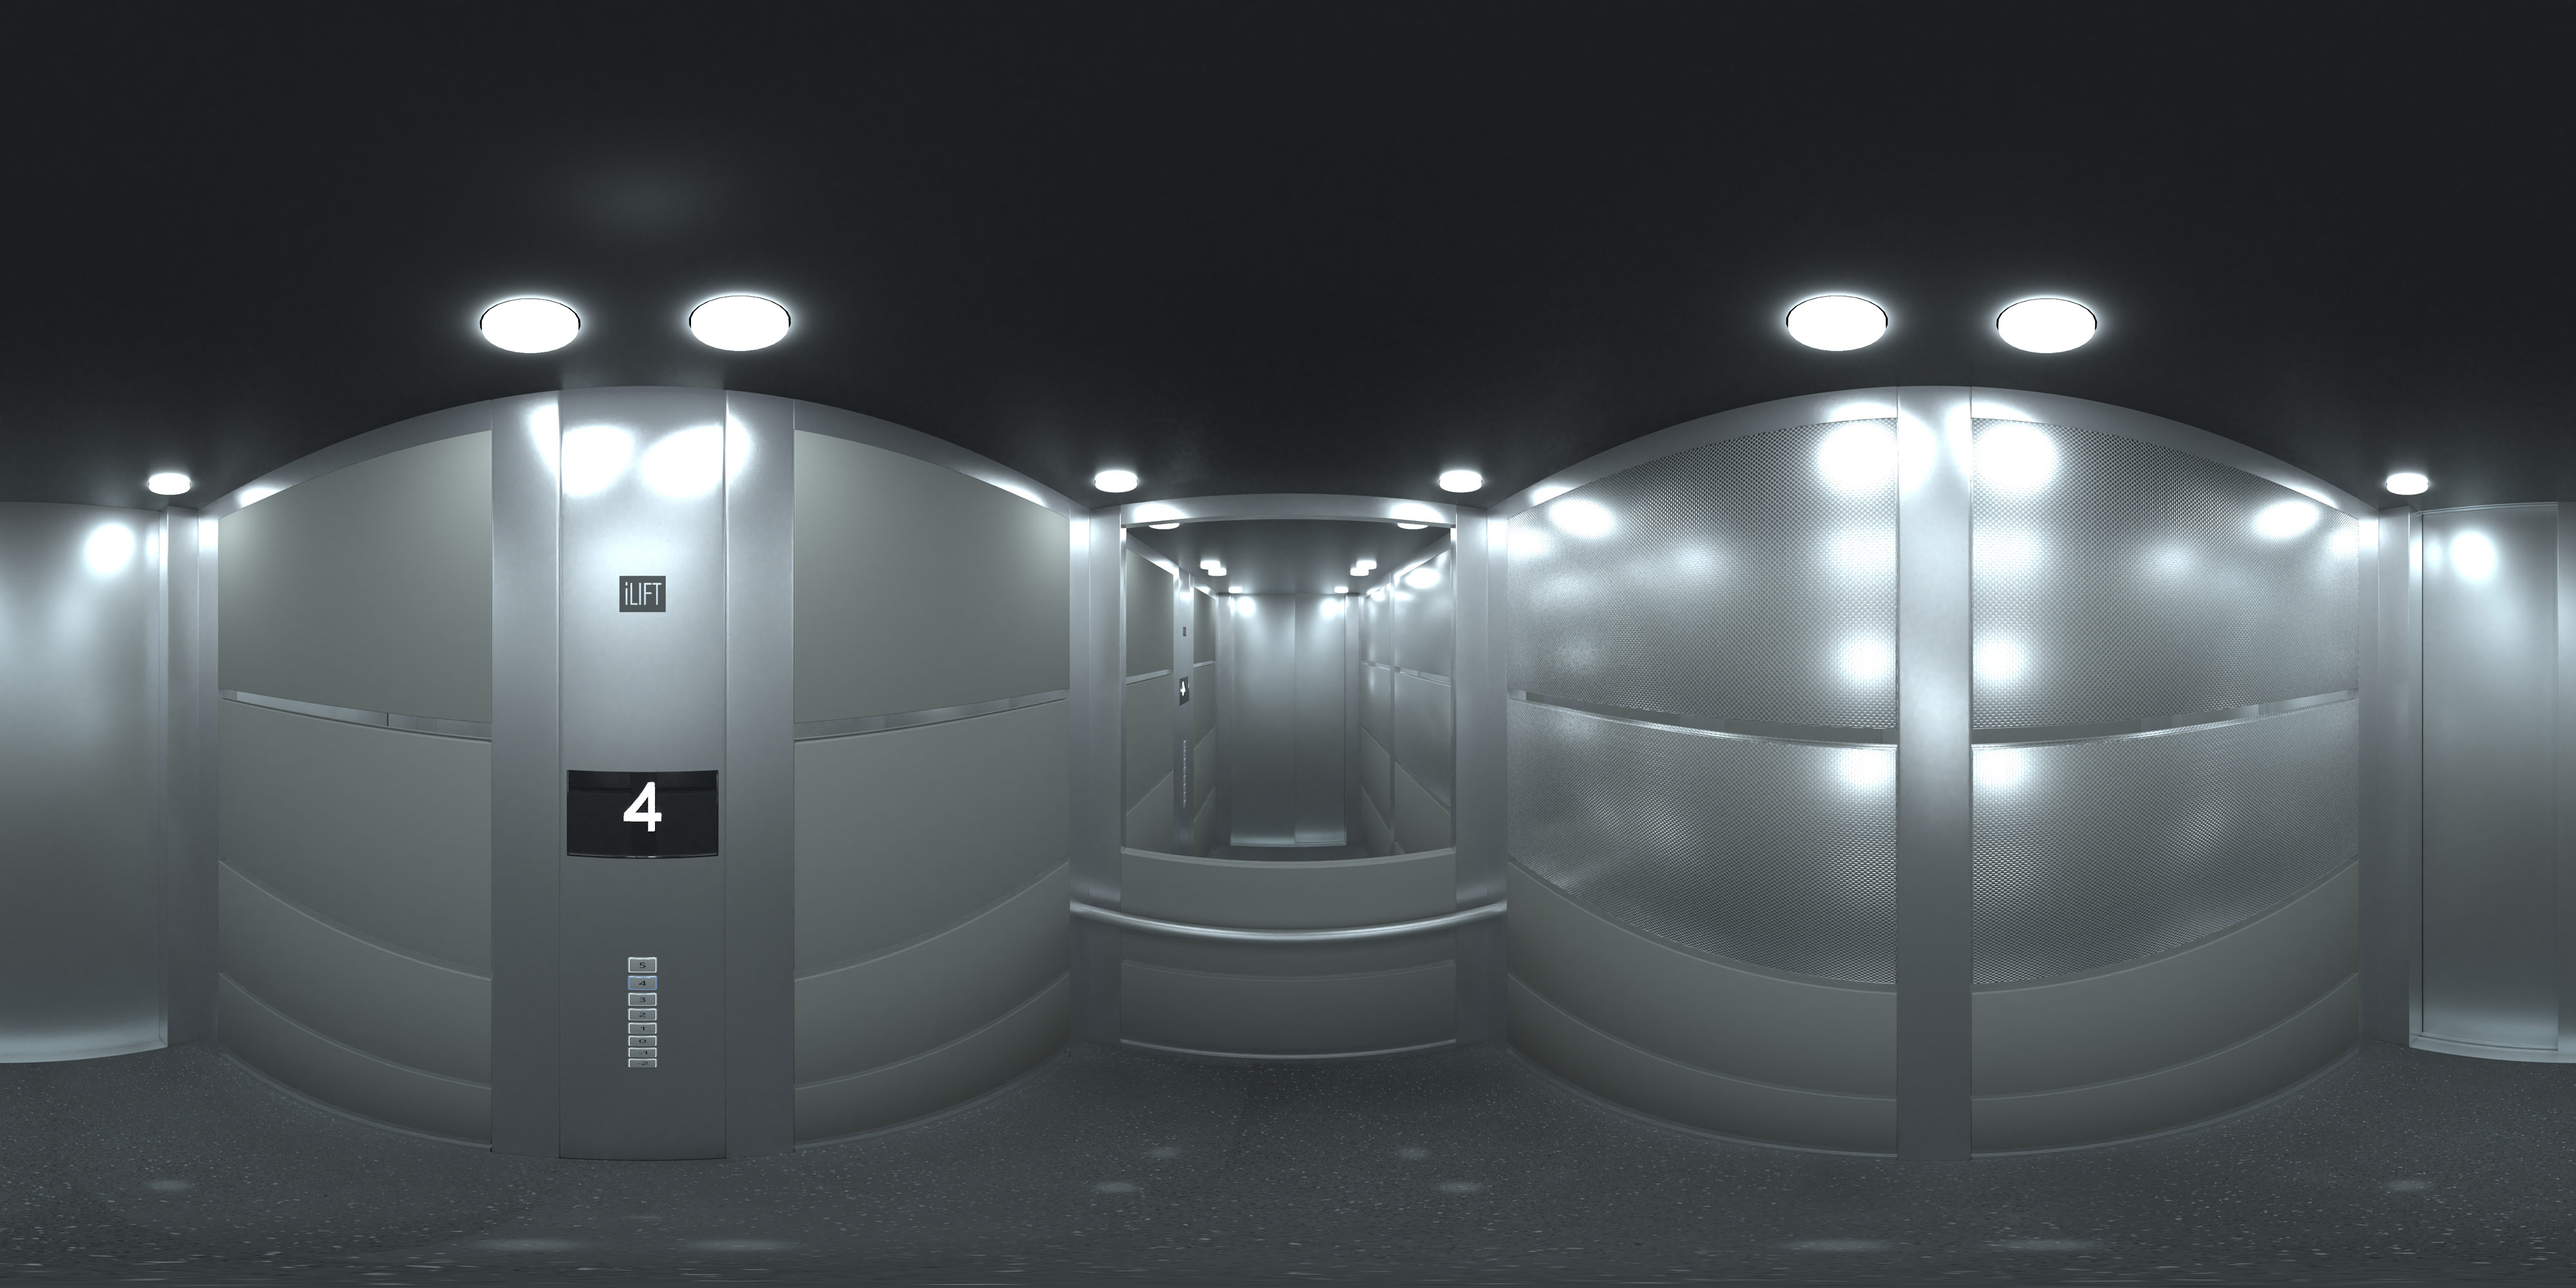
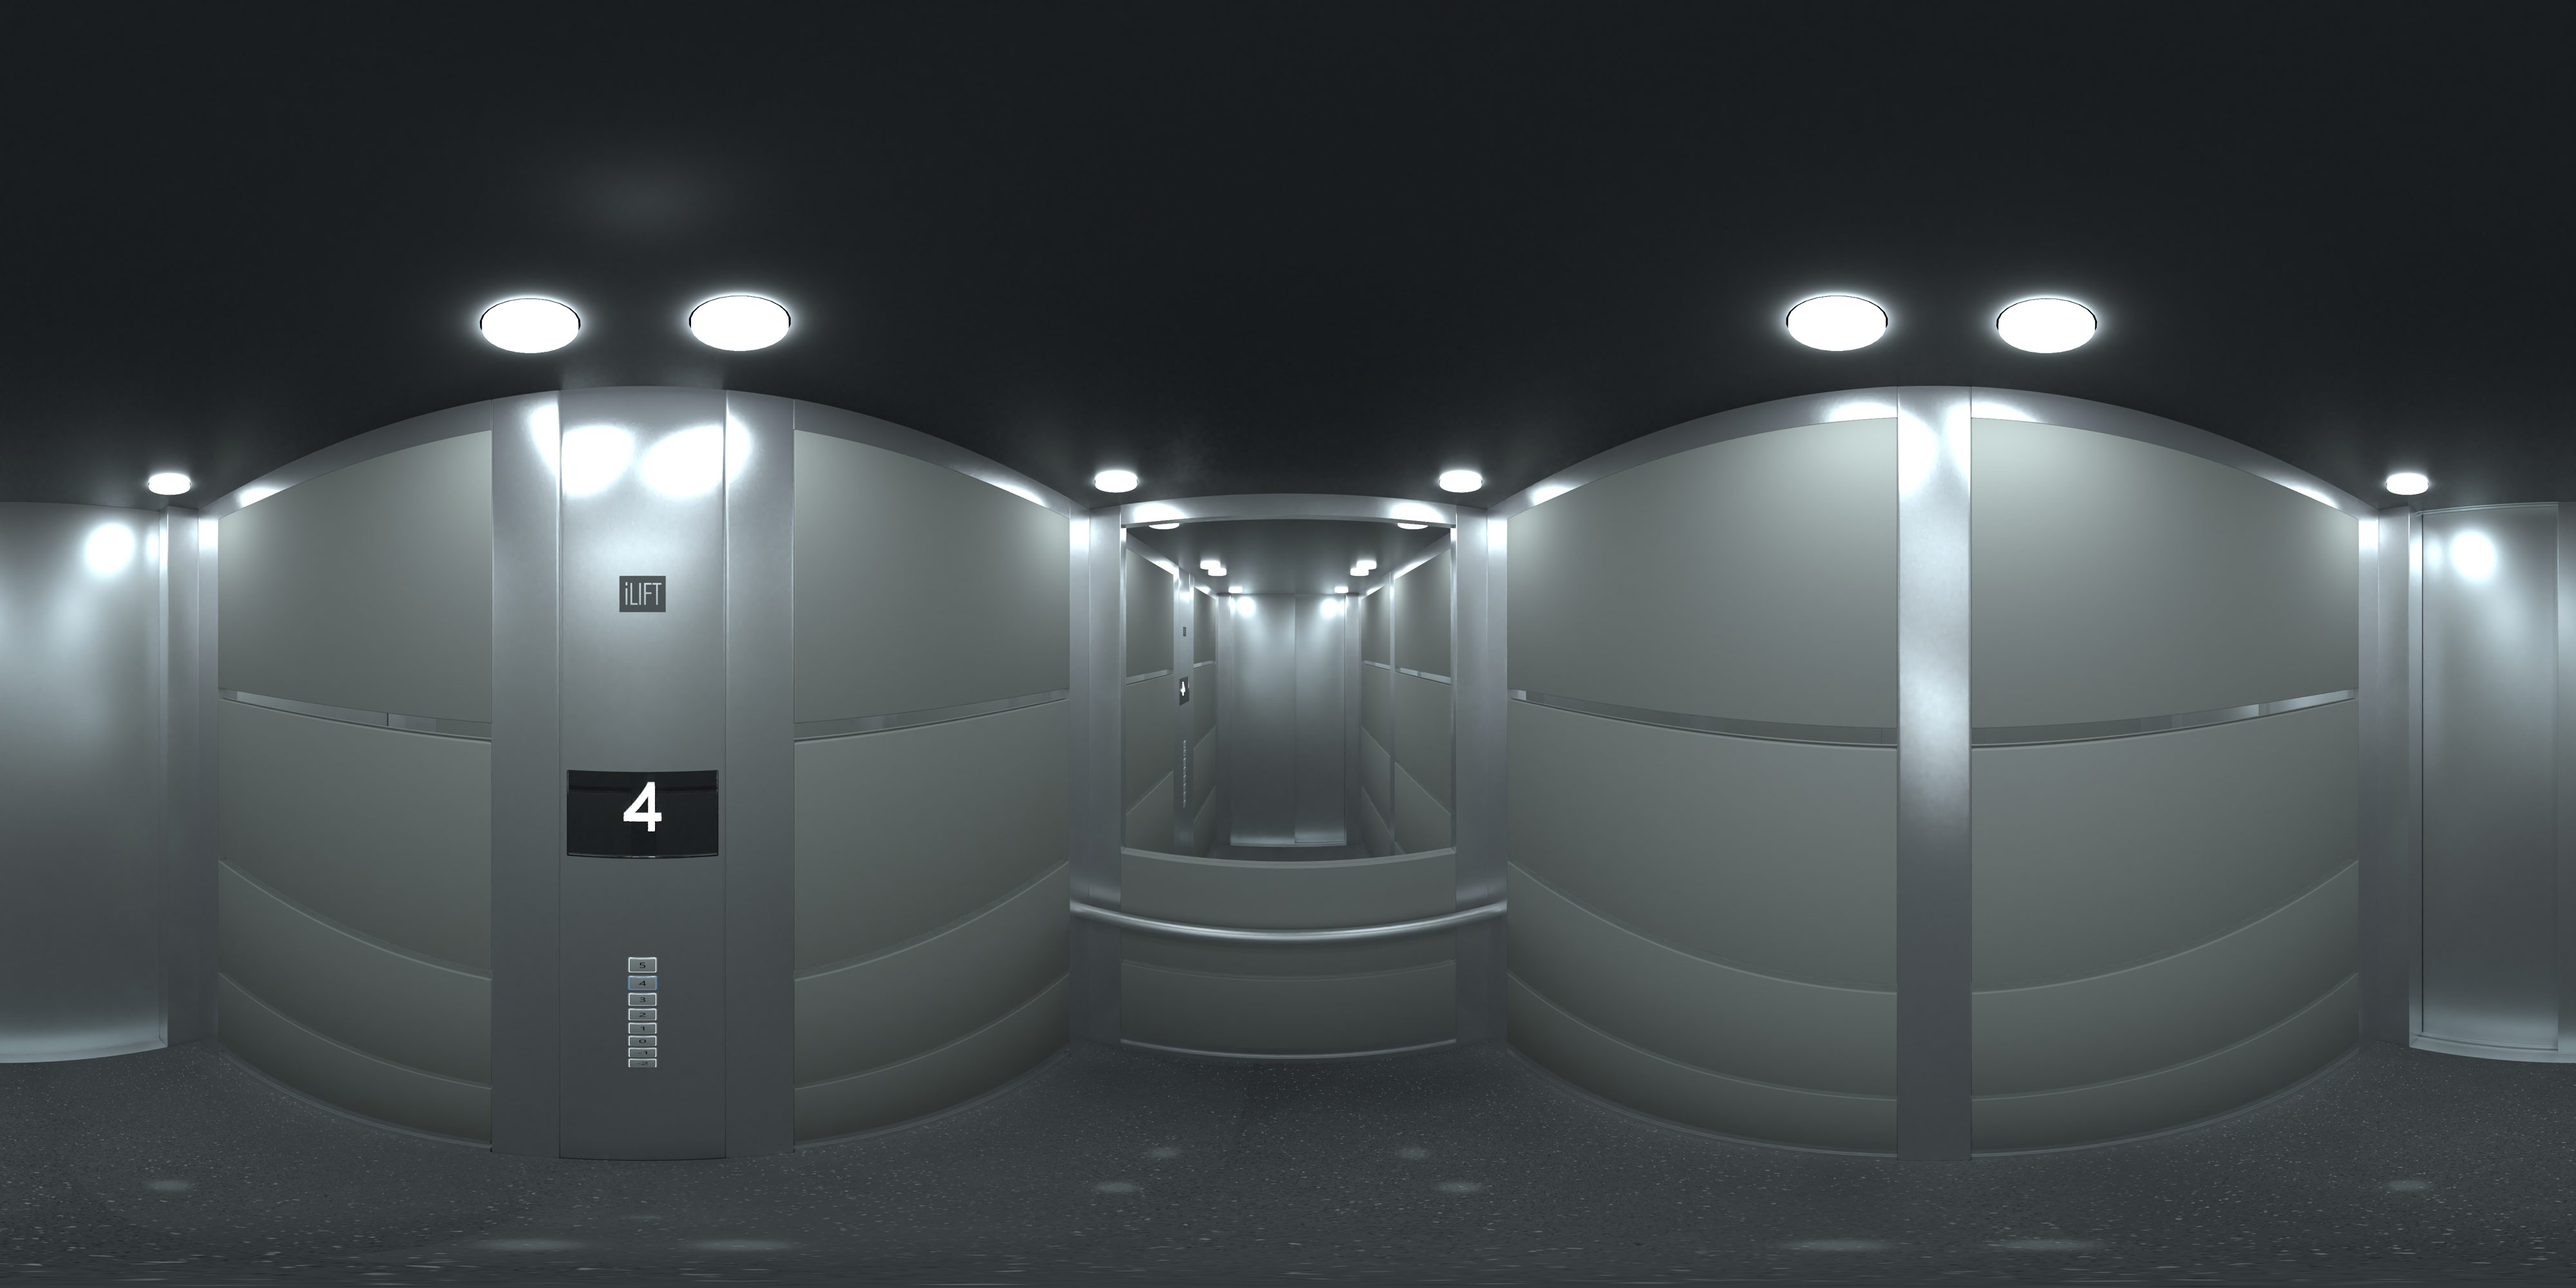
Fix RAL and fov

Changed region(s): [[0.5, 0.31, 0.9688, 0.775], [0.1875, 0.434, 0.3125, 0.589], [0.0938, 0.527, 0.1562, 0.558]]

diff --git a/src/Lifts.js b/src/Lifts.js
@@ -154,21 +154,21 @@ class WelcomeToVR extends React.Component {
         />
         <MaterialChange
           pos1={this.changePos(" 0 0 0")}
-          pos2={this.changePos(" 0 0 -20")}
-          pos3={this.changePos(" 0 0 -40")}
-          pos4={this.changePos(" 0 0 -60")}
-          pos5={this.changePos(" 20 0 0 ")}
-          pos6={this.changePos(" 20 0 -20")}
-          pos7={this.changePos(" 20 0 -40")}
-          pos8={this.changePos(" 20 0 -60")}
-          pos9={this.changePos(" 40 0 0")}
-          pos10={this.changePos("40 0 -20")}
-          pos11={this.changePos("40 0 -40")}
-          pos12={this.changePos("40 0 -60")}
-          pos13={this.changePos("60 0 0")}
-          pos14={this.changePos("60 0 -20")}
-          pos15={this.changePos("60 0 -40")}
-          pos16={this.changePos("60 0 -60")}
+          pos2={this.changePos(" 0 0 -200")}
+          pos3={this.changePos(" 0 0 -400")}
+          pos4={this.changePos(" 0 0 -600")}
+          pos5={this.changePos(" 200 0 0 ")}
+          pos6={this.changePos(" 200 0 -200")}
+          pos7={this.changePos(" 200 0 -400")}
+          pos8={this.changePos(" 200 0 -600")}
+          pos9={this.changePos(" 400 0 0")}
+          pos10={this.changePos("400 0 -200")}
+          pos11={this.changePos("400 0 -400")}
+          pos12={this.changePos("400 0 -600")}
+          pos13={this.changePos("600 0 0")}
+          pos14={this.changePos("600 0 -200")}
+          pos15={this.changePos("600 0 -400")}
+          pos16={this.changePos("600 0 -600")}
         />
         <div style={{ minWidth: "100vw", minHeight: "100vh" }}>
           <Scene
@@ -205,25 +205,25 @@ class WelcomeToVR extends React.Component {
               <img id="caropattern" src={CaroPatternPlatform} alt="" />
               <img id="ralfoil" src={RALFoilPlatform} alt="" />
             </a-assets>
-            <a-sky position="0 0 0" radius="10" src="#ral9006" />
-            <a-sky position="0 0 -20" radius="10" src="#darkoak" />
-            <a-sky position="0 0 -40" radius="10" src="#birchoak" />
-            <a-sky position="0 0 -60" radius="10" src="#blackfoilpattern" />
+            <a-sky position="0 0 0" radius="100" src="#ral9006" />
+            <a-sky position="0 0 -200" radius="100" src="#darkoak" />
+            <a-sky position="0 0 -400" radius="100" src="#birchoak" />
+            <a-sky position="0 0 -600" radius="100" src="#blackfoilpattern" />
 
-            <a-sky position="20 0 0" radius="10" src="#spruceoak" />
-            <a-sky position="20 0 -20" radius="10" src="#oak" />
-            <a-sky position="20 0 -40" radius="10" src="#acaciaoak" />
-            <a-sky position="20 0 -60" radius="10" src="#whitefoilpattern" />
+            <a-sky position="200 0 0" radius="100" src="#spruceoak" />
+            <a-sky position="200 0 -200" radius="100" src="#oak" />
+            <a-sky position="200 0 -400" radius="100" src="#acaciaoak" />
+            <a-sky position="200 0 -600" radius="100" src="#whitefoilpattern" />
 
-            <a-sky position="40 0 0" radius="10" src="#blackskin" />
-            <a-sky position="40 0 -20" radius="10" src="#whiteoak" />
-            <a-sky position="40 0 -40" radius="10" src="#redoak" />
-            <a-sky position="40 0 -60" radius="10" src="#materialwhiteskin" />
+            <a-sky position="400 0 0" radius="100" src="#blackskin" />
+            <a-sky position="400 0 -200" radius="100" src="#whiteoak" />
+            <a-sky position="400 0 -400" radius="100" src="#redoak" />
+            <a-sky position="400 0 -600" radius="100" src="#materialwhiteskin" />
 
-            <a-sky position="60 0 0" radius="10" src="#lightoak" />
-            <a-sky position="60 0 -20" radius="10" src="#sheetpattern" />
-            <a-sky position="60 0 -40" radius="10" src="#caropattern" />
-            <a-sky position="60 0 -60" radius="10" src="#ralfoil" />
+            <a-sky position="600 0 0" radius="100" src="#lightoak" />
+            <a-sky position="600 0 -200" radius="100" src="#sheetpattern" />
+            <a-sky position="600 0 -400" radius="100" src="#caropattern" />
+            <a-sky position="600 0 -600" radius="100" src="#ralfoil" />
             <a-entity position={this.state.currentPos} rotation="0 90 0">
               <a-camera
                 fov="80"
